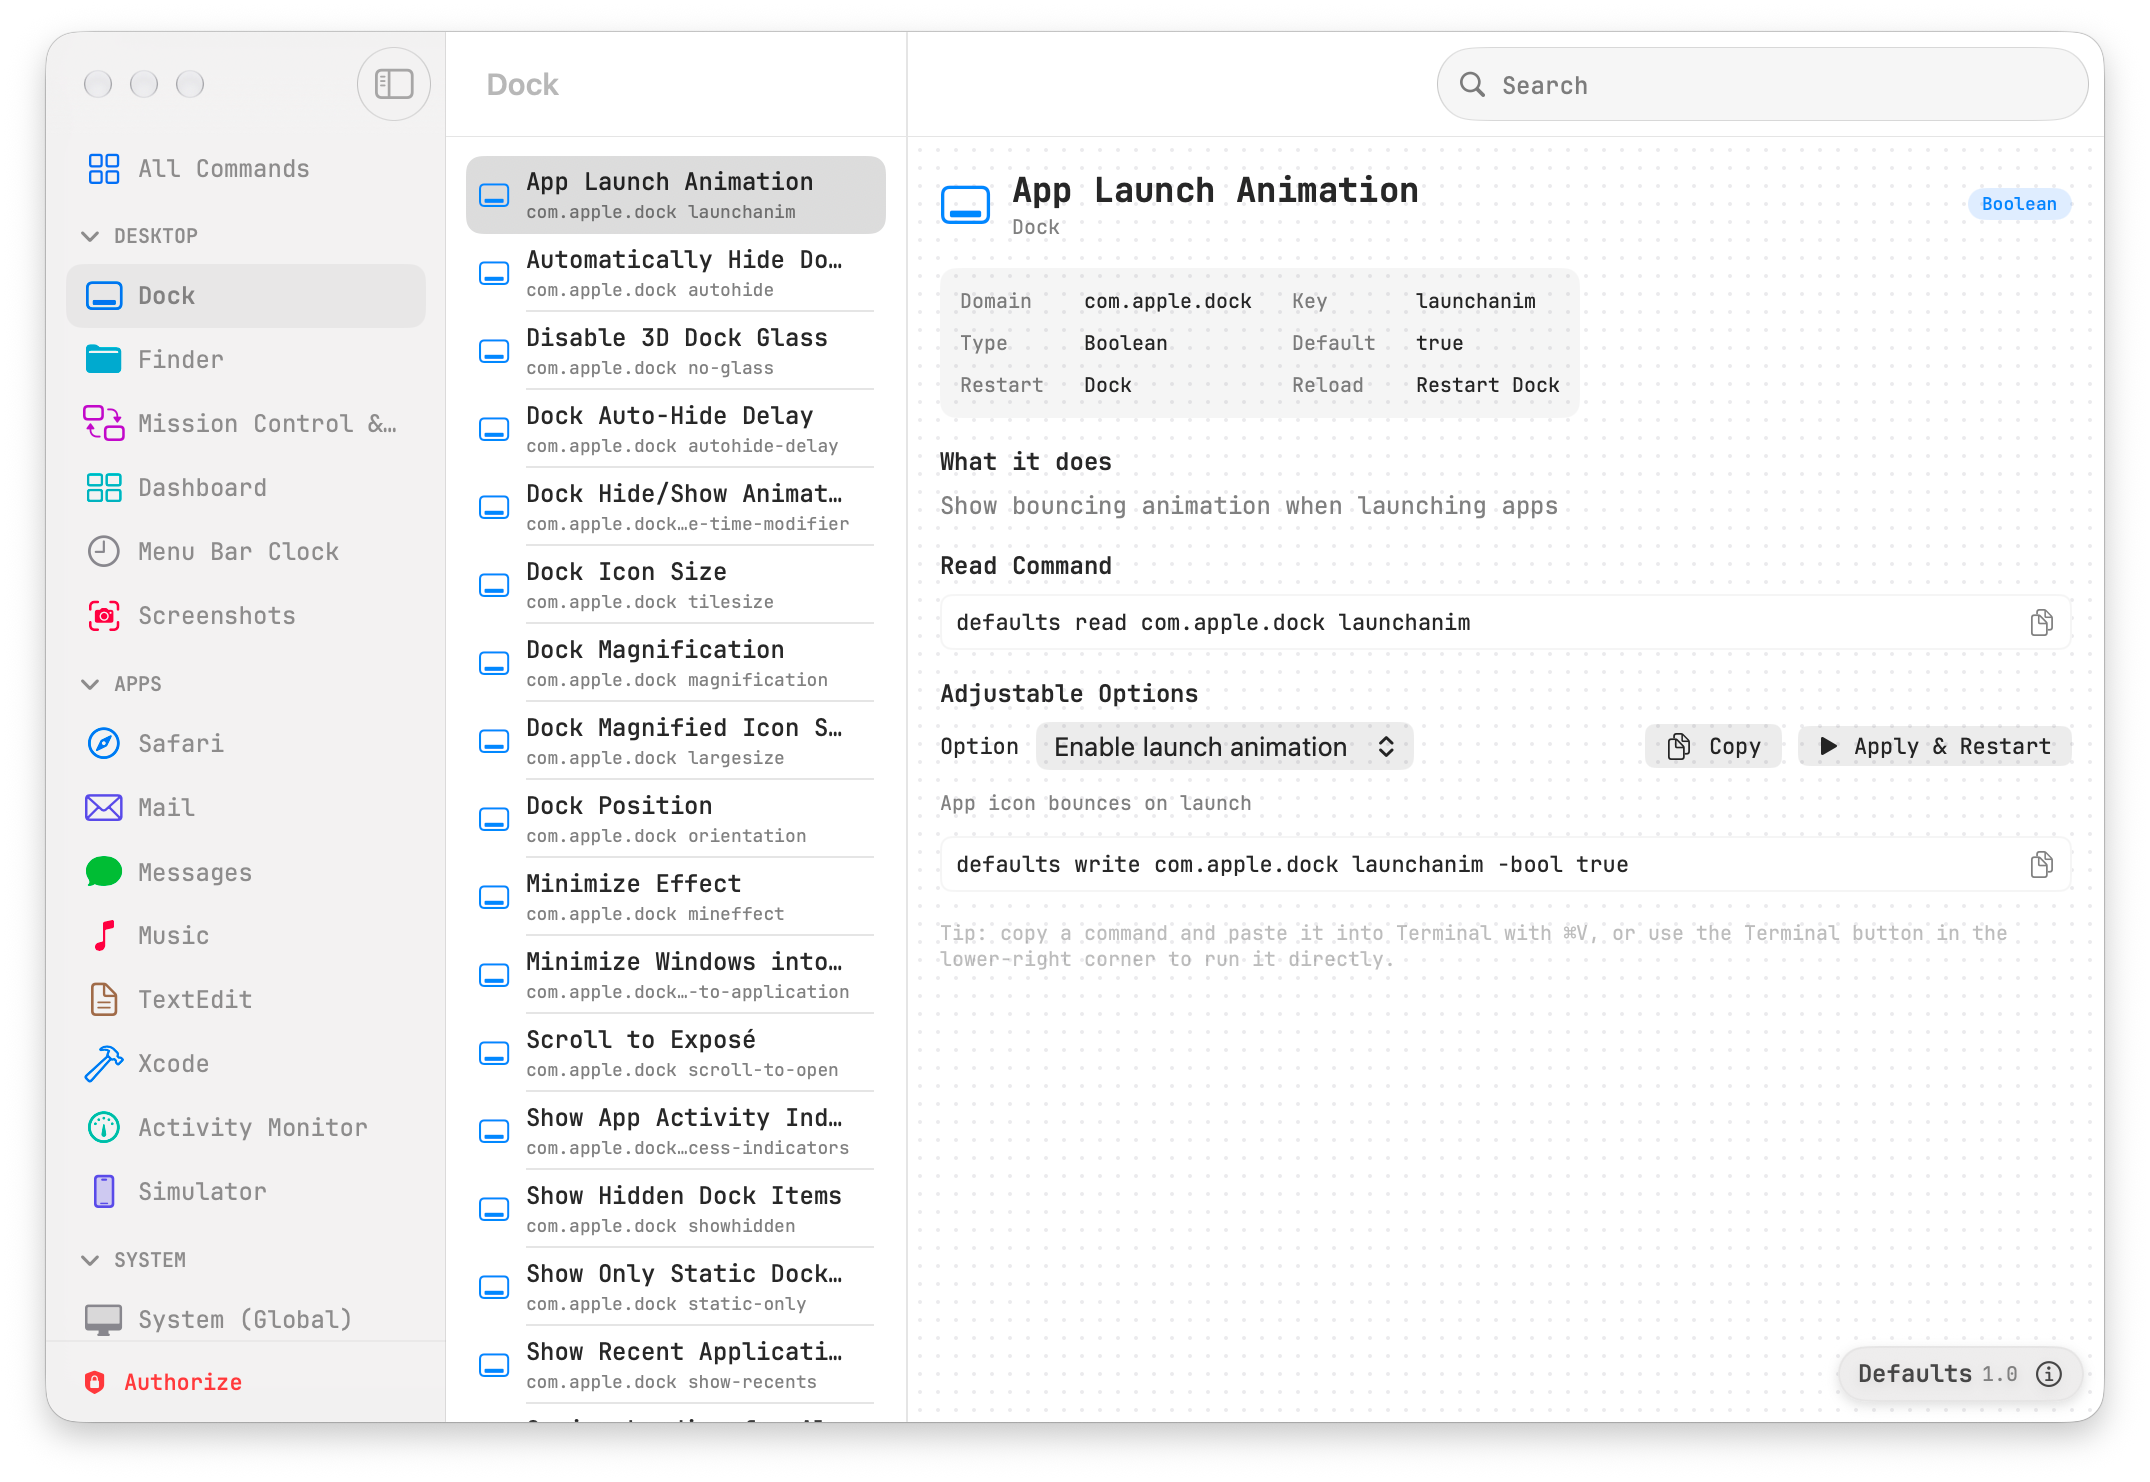
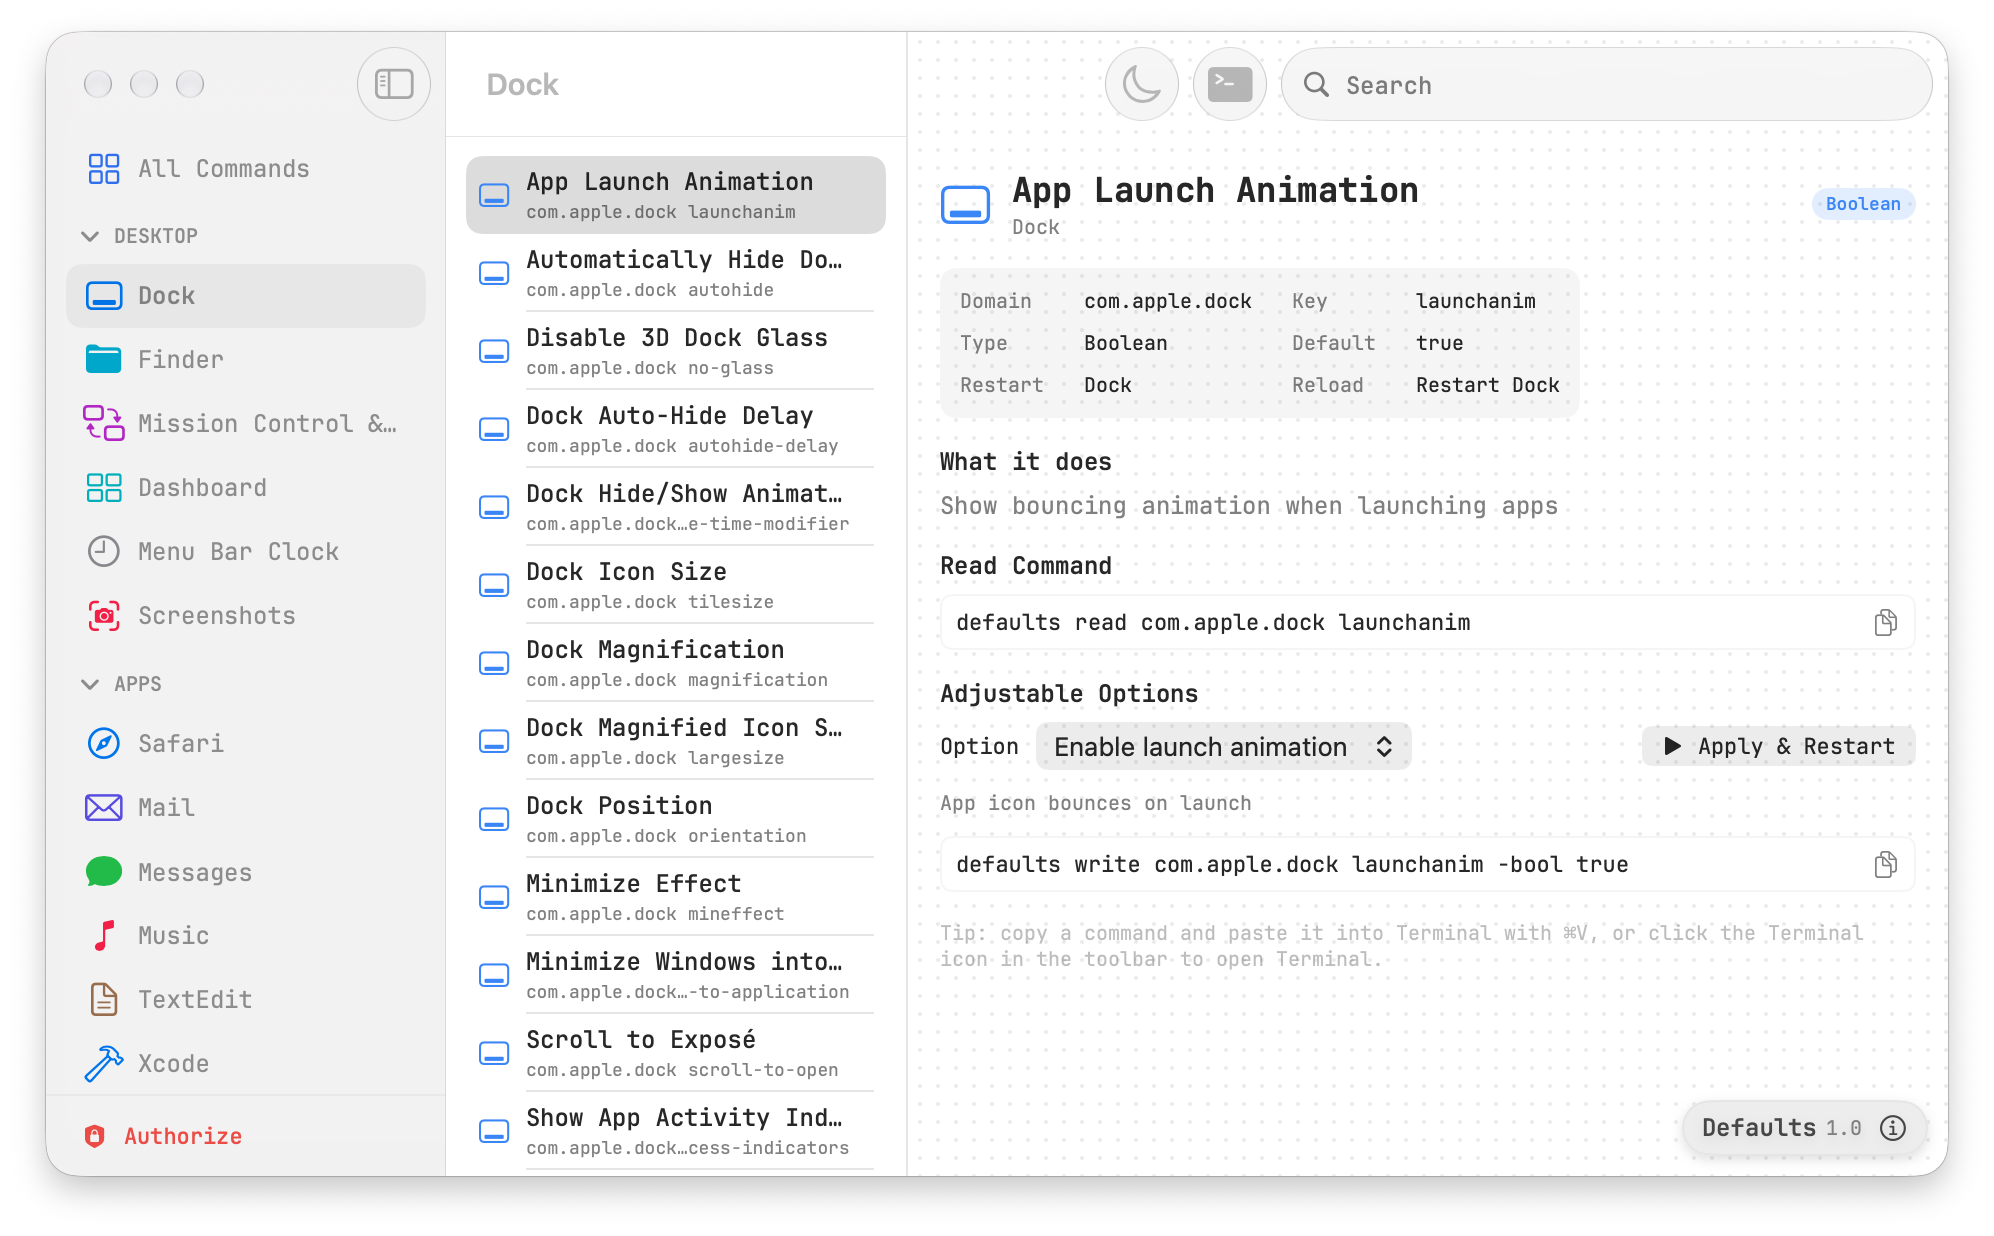
Refresh the README screenshot for the new toolbar and detail pane
The hero image was captured before the Light/Dark toggle, the separate
Terminal button and the non-scrolling detail pane existed. The new shot is
light-mode, window-only with its shadow, and shows a Dock command with its
option picker and Apply & Restart. The alt text and a short caption describe
what is on screen.

diff --git a/README.md b/README.md
@@ -12,8 +12,10 @@
 </p>
 
 <p align="center">
-  <img src="Docs/screenshot.png" alt="Defaults: browsing the Dock commands" width="900">
+  <img src="Docs/screenshot.png" alt="Defaults browsing the Dock commands, with the Light/Dark and Terminal buttons in the toolbar" width="900">
 </p>
+
+<p align="center"><sub>Browsing the Dock commands — exact <code>defaults</code> command, a value picker, and <b>Apply &amp; Restart</b>. The detail pane fits without scrolling.</sub></p>
 
 ---
 
